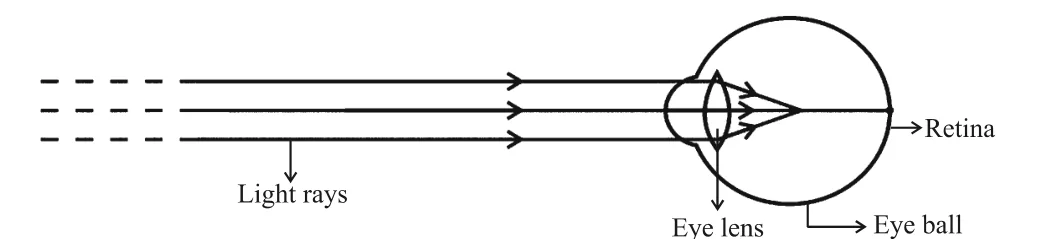
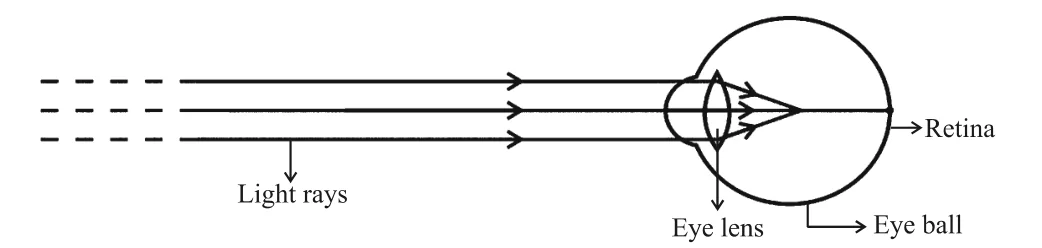
fix(figures): PR-S1 verifier follow-ups - re-crop APQ-S-MAG-002 (left wire was cut) and PYQ-S-LIGHT-002 (label descenders), neutral alt text for ELEC-007 and MAG-006
APQ-S-MAG-002: clip x0 115 -> 112.5 (Science-PQ.pdf p8) so the circuit's left wire is inside the crop.
PYQ-S-LIGHT-002: clip y1 198 -> 201 so "Eye lens" / "Eye ball" are not clipped.
ELEC-007 / MAG-006 titles no longer describe the relation the question asks the student to infer.

diff --git a/lazytopper/src/data/figures/scienceFigureVisuals.ts b/lazytopper/src/data/figures/scienceFigureVisuals.ts
@@ -288,14 +288,14 @@ export const SCIENCE_FIGURE_VISUALS: VisualConcept[] = [
   // 200 dpi clips, each eye-confirmed against its SERVED row's text; each title names only what the figure shows.
   // Manifest: Desktop/diff/c3/sdiag/manifest.json. Pinned one by one in scienceFigureVisuals.c3.test.ts. (11)
   { id: "science-electricity-fig-pyq-s-2026-elec-006", title: "Circuit with a 10 V battery and key: 4 Ω and 1 Ω in series across 5 Ω between R and S, an ammeter, and 3 Ω and 2 Ω in series across 5 Ω between Q and P", chapter: "Electricity", subject: "science", filePath: "/figures/pyq-science/electricity/PYQ-S-2026-ELEC-006.webp", keywords: [], isInteractive: false, questionId: "PYQ-S-2026-ELEC-006" }, // 31-3-2.pdf (2026) p27 Q36 — circuit R-S-Q-P, 10 V
-  { id: "science-electricity-fig-pyq-s-2026-elec-007", title: "V-I graphs of two wires: potential difference V against electric current I, straight lines through the origin, B steeper than A", chapter: "Electricity", subject: "science", filePath: "/figures/pyq-science/electricity/PYQ-S-2026-ELEC-007.webp", keywords: [], isInteractive: false, questionId: "PYQ-S-2026-ELEC-007" }, // 31-3-3.pdf (2026) p27 Q37(b) — V-I graphs of wires A and B
+  { id: "science-electricity-fig-pyq-s-2026-elec-007", title: "V-I graphs of two wires A and B: potential difference V against electric current I, both straight lines through the origin", chapter: "Electricity", subject: "science", filePath: "/figures/pyq-science/electricity/PYQ-S-2026-ELEC-007.webp", keywords: [], isInteractive: false, questionId: "PYQ-S-2026-ELEC-007" }, // 31-3-3.pdf (2026) p27 Q37(b) — V-I graphs of wires A and B
   { id: "science-electricity-fig-pyq-s-2025-elec-005", title: "Circuit with a 15 V battery, ammeter and key K: 10 Ω and 15 Ω in parallel, in series with 60 Ω and 40 Ω in parallel", chapter: "Electricity", subject: "science", filePath: "/figures/pyq-science/electricity/PYQ-S-2025-ELEC-005.webp", keywords: [], isInteractive: false, questionId: "PYQ-S-2025-ELEC-005" }, // 31-1-1_Science.pdf (2025) p17 Q32 — 10||15 in series with 60||40, 15 V
   { id: "science-electricity-fig-pyq-s-2024-elec-002", title: "Circuit: 4 Ω, 6 Ω and 16 Ω in series between A and B, two 8 Ω in parallel between B and C, with a 6 V battery and key", chapter: "Electricity", subject: "science", filePath: "/figures/pyq-science/electricity/PYQ-S-2024-ELEC-002.webp", keywords: [], isInteractive: false, questionId: "PYQ-S-2024-ELEC-002" }, // 31_4_1_Science.pdf (2024, SCIENCE_2024 folder) p27 Q39 — A-B-C circuit, 6 V
   { id: "science-human-eye-and-colourful-world-fig-apq-s-eye-002", title: "Beam of white light falling on Prism 1, followed by an inverted Prism 2 and Prism 3, with a screen beyond", chapter: "Human Eye and Colourful World", subject: "science", filePath: "/figures/other-science/human-eye-and-colourful-world/APQ-S-EYE-002.webp", keywords: [], isInteractive: false, questionId: "APQ-S-EYE-002" }, // Science-PQ.pdf (APQ 2023-24) p12 Q36 — three equilateral prisms and screen
   { id: "science-human-eye-and-colourful-world-fig-pyq-s-light-002", title: "Parallel light rays entering an eye and meeting in front of the retina; eye lens, eye ball and retina labelled", chapter: "Human Eye and Colourful World", subject: "science", filePath: "/figures/pyq-science/human-eye-and-colourful-world/PYQ-S-LIGHT-002.webp", keywords: [], isInteractive: false, questionId: "PYQ-S-LIGHT-002" }, // 31_4_1_ Science.pdf (2023, SCIENCE_2023 (1)) p13 Q25(A) — defect-of-vision diagram
   { id: "science-human-eye-and-colourful-world-fig-cfpq-s-eye-010", title: "Photograph of shafts of sunlight entering a dark room through windows, visible as bright beams", chapter: "Human Eye and Colourful World", subject: "science", filePath: "/figures/cfpq-science/human-eye-and-colourful-world/CFPQ-S-EYE-010.webp", keywords: [], isInteractive: false, questionId: "CFPQ-S-EYE-010" }, // CFPQ_Science10.pdf p96 (printed 95) Q10 — sunbeams in a dark room
   { id: "science-magnetic-effects-of-electric-current-fig-apq-s-mag-002", title: "Helical coil connected to a battery, with two points P and Q marked inside the coil", chapter: "Magnetic Effects of Electric Current", subject: "science", filePath: "/figures/other-science/magnetic-effects-of-electric-current/APQ-S-MAG-002.webp", keywords: [], isInteractive: false, questionId: "APQ-S-MAG-002" }, // Science-PQ.pdf (APQ 2023-24) p8 Q25 OR — helical coil, points P and Q
-  { id: "science-magnetic-effects-of-electric-current-fig-pyq-s-2025-mag-006", title: "Three diagrams I, II and III of a positive charge +Q entering a magnetic field: along, at an angle to, and perpendicular to the field", chapter: "Magnetic Effects of Electric Current", subject: "science", filePath: "/figures/pyq-science/magnetic-effects-of-electric-current/PYQ-S-2025-MAG-006.webp", keywords: [], isInteractive: false, questionId: "PYQ-S-2025-MAG-006" }, // 31-3-3_Science.pdf (2025) p17 Q32(b) — +Q in a magnetic field, cases I-III
+  { id: "science-magnetic-effects-of-electric-current-fig-pyq-s-2025-mag-006", title: "Three diagrams I, II and III of a positive charge +Q moving in a magnetic field, each in a different direction relative to the field lines", chapter: "Magnetic Effects of Electric Current", subject: "science", filePath: "/figures/pyq-science/magnetic-effects-of-electric-current/PYQ-S-2025-MAG-006.webp", keywords: [], isInteractive: false, questionId: "PYQ-S-2025-MAG-006" }, // 31-3-3_Science.pdf (2025) p17 Q32(b) — +Q in a magnetic field, cases I-III
   { id: "science-magnetic-effects-of-electric-current-fig-pyq-s-2025-mag-007", title: "Straight conductor XY passing vertically through a horizontal card Q, in a circuit with a variable resistance, ammeter, battery and key K", chapter: "Magnetic Effects of Electric Current", subject: "science", filePath: "/figures/pyq-science/magnetic-effects-of-electric-current/PYQ-S-2025-MAG-007.webp", keywords: [], isInteractive: false, questionId: "PYQ-S-2025-MAG-007" }, // 31-2-1_Science.pdf (2025) p21 Q36(a) — conductor XY through card Q
   { id: "science-acids-bases-and-salts-fig-cfpq-s-abs-013", title: "Photograph of a pH meter: indicating unit showing the pH reading, glass electrode dipped in a solution, and a separate glass electrode", chapter: "Acids, Bases and Salts", subject: "science", filePath: "/figures/cfpq-science/acids-bases-and-salts/CFPQ-S-ABS-013.webp", keywords: [], isInteractive: false, questionId: "CFPQ-S-ABS-013" }, // CFPQ_Science10.pdf p14 (printed 13) Q13 — pH meter with labels
 ];
